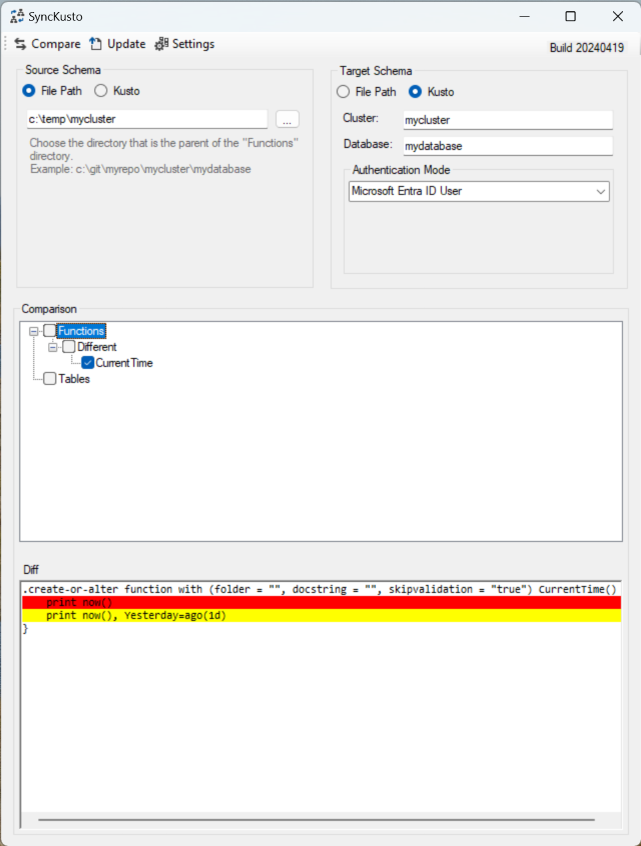
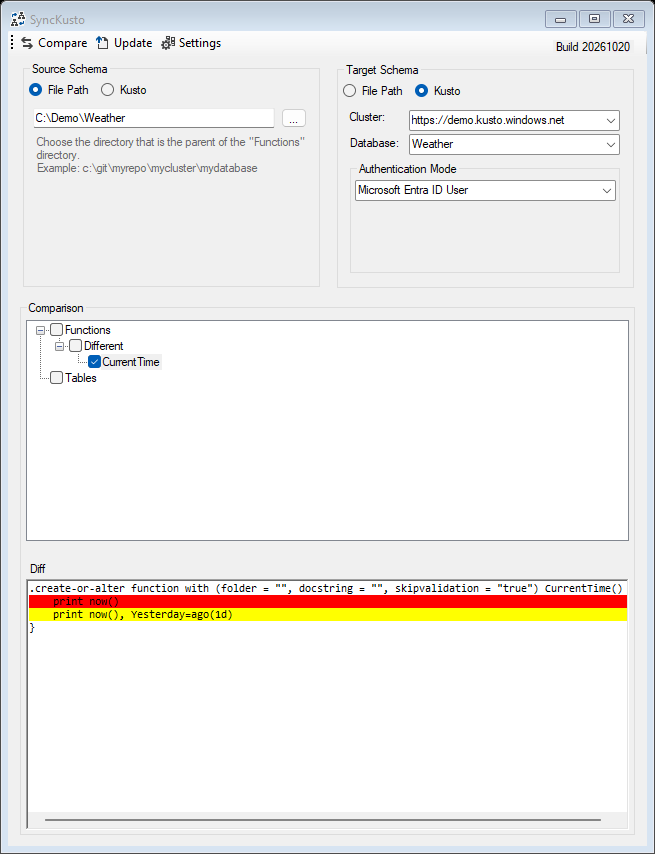
Automate README screenshot refresh
Add an offline WinForms capture command and agent guidance, refresh screenshot.png, and allow SDK servicing patch roll-forward.

Changed region(s): [[0.0, 0.0, 1.0, 1.0]]

diff --git a/SyncKusto.Tests/Screenshots/ReadmeScreenshotTests.cs b/SyncKusto.Tests/Screenshots/ReadmeScreenshotTests.cs
@@ -1,0 +1,149 @@
+// Copyright (c) Microsoft Corporation. All rights reserved.
+// Licensed under the MIT License.
+
+using Kusto.Data.Common;
+using Moq;
+using NUnit.Framework;
+using SyncKusto.Abstractions;
+using SyncKusto.Core.Abstractions;
+using SyncKusto.Core.Models;
+using SyncKusto.Core.Services;
+using SyncKusto.ErrorHandling;
+using SyncKusto.Kusto.Models;
+using System.Drawing;
+using System.Drawing.Imaging;
+using System.Reflection;
+using System.Runtime.InteropServices;
+using static SyncKusto.Tests.Forms.FormsTestHelper;
+
+namespace SyncKusto.Tests.Screenshots;
+
+[TestFixture]
+[Apartment(ApartmentState.STA)]
+[NonParallelizable]
+public class ReadmeScreenshotTests
+{
+    [Test]
+    [Explicit("Run scripts\\Update-ReadmeScreenshot.ps1 to refresh the README image.")]
+    public void Capture()
+    {
+        string? outputPath = Environment.GetEnvironmentVariable("SYNCKUSTO_SCREENSHOT_PATH");
+        Assert.That(outputPath, Is.Not.Null.And.Not.Empty, "Use scripts\\Update-ReadmeScreenshot.ps1.");
+        Assert.That(Environment.UserInteractive, Is.True, "Screenshot capture requires a Windows desktop session.");
+
+        Application.SetHighDpiMode(HighDpiMode.DpiUnaware);
+        Application.SetDefaultFont(new Font("Microsoft Sans Serif", 8.25f));
+        Application.EnableVisualStyles();
+        Application.SetCompatibleTextRenderingDefault(false);
+
+        var source = new DatabaseSchema("demo-source", "");
+        var target = new DatabaseSchema("demo-target", "");
+        var current = CreateFunction("{\r\n    print now(), Yesterday=ago(1d)\r\n}");
+        source.Functions.Add(current.Name, current);
+        target.Functions.Add(current.Name, CreateFunction("{\r\n    print now()\r\n}"));
+        var comparison = new ComparisonResult(
+            new SchemaDifferenceResult(Array.Empty<SchemaDifference>(),
+                new[] { new FunctionSchemaDifference(new Modified(), new KustoFunctionSchema(current)) }),
+            source, target);
+        var presenter = new Mock<IMainFormPresenter>(MockBehavior.Strict);
+        presenter.Setup(p => p.CompareAsync(It.IsAny<SchemaSourceInfo>(), It.IsAny<SchemaSourceInfo>(),
+            It.IsAny<IProgress<SyncProgress>>(), default)).ReturnsAsync(comparison);
+        var settings = new InMemorySettingsProvider();
+        var validation = new SchemaValidationService(settings);
+        var kustoValidation = new Mock<IKustoValidationService>(MockBehavior.Strict);
+        using var form = new CaptureForm(presenter.Object, settings, validation, kustoValidation.Object)
+        {
+            StartPosition = FormStartPosition.Manual,
+            Location = new Point(0, 0),
+            Size = new Size(655, 854),
+            ShowInTaskbar = false
+        };
+        var sourcePicker = form.MainField<SchemaPickerControl>("spcSource");
+        Field<TextBox>(sourcePicker, "txtFilePath").Text = @"C:\Demo\Weather";
+        var targetPicker = form.MainField<SchemaPickerControl>("spcTarget");
+        Field<RadioButton>(targetPicker, "rbKusto").Checked = true;
+        Field<ComboBox>(targetPicker, "cbCluster").Text = "https://demo.kusto.windows.net";
+        Field<ComboBox>(targetPicker, "cbDatabase").Text = "Weather";
+        form.Show();
+
+        var compare = form.CompareSchemasAsync(sourcePicker.GetSourceInfo(), targetPicker.GetSourceInfo());
+        PumpUntil(() => compare.IsCompleted);
+        compare.GetAwaiter().GetResult();
+        var tree = form.MainField<TreeView>("tvComparison");
+        tree.ExpandAll();
+        var functionNode = tree.Nodes[0].Nodes[0].Nodes[0];
+        functionNode.Checked = true;
+        tree.HideSelection = false;
+        tree.SelectedNode = functionNode;
+        typeof(MainForm).GetMethod("tvComparison_NodeMouseClick", BindingFlags.NonPublic | BindingFlags.Instance)!
+            .Invoke(form, new object[] { tree, new TreeNodeMouseClickEventArgs(functionNode, MouseButtons.Left, 1, 0, 0) });
+        var diff = form.MainField<RichTextBox>("rtbSourceText");
+        diff.SelectionStart = 0;
+        diff.SelectionLength = 0;
+        diff.ScrollToCaret();
+        form.Refresh();
+        Application.DoEvents();
+
+        Assert.That(form.Size, Is.EqualTo(new Size(655, 854)));
+        Assert.That(functionNode.Text, Is.EqualTo("CurrentTime"));
+        Assert.That(functionNode.Checked, Is.True);
+        Assert.That(diff.Text, Does.Contain("print now()").And.Contain("Yesterday=ago(1d)"));
+        Assert.That(form.MainField<ToolStripButton>("btnUpdate").Enabled, Is.True);
+        presenter.Verify(p => p.CompareAsync(It.IsAny<SchemaSourceInfo>(), It.IsAny<SchemaSourceInfo>(),
+            It.IsAny<IProgress<SyncProgress>>(), default), Times.Once);
+        presenter.VerifyNoOtherCalls();
+        kustoValidation.VerifyNoOtherCalls();
+
+        using var bitmap = new Bitmap(form.Width, form.Height, PixelFormat.Format32bppArgb);
+        using (var graphics = Graphics.FromImage(bitmap))
+        {
+            nint deviceContext = graphics.GetHdc();
+            try
+            {
+                Assert.That(PrintWindow(form.Handle, deviceContext, 0), Is.True, "Windows could not render the demo window.");
+            }
+            finally
+            {
+                graphics.ReleaseHdc(deviceContext);
+            }
+        }
+
+        // RichTextBox is not reliably rendered by Control.DrawToBitmap.
+        Assert.That(CountPixels(bitmap, Color.Red), Is.GreaterThan(500), "The deleted diff line was not captured.");
+        Assert.That(CountPixels(bitmap, Color.Yellow), Is.GreaterThan(500), "The inserted diff line was not captured.");
+        bitmap.Save(outputPath!, ImageFormat.Png);
+        using var saved = new Bitmap(outputPath!);
+        Assert.That(saved.Size, Is.EqualTo(bitmap.Size));
+    }
+
+    private static FunctionSchema CreateFunction(string body) =>
+        new("CurrentTime", new List<FunctionParameterSchema>(), body, "", "",
+            FunctionSchema.FunctionKind.Unknown, Array.Empty<ColumnSchema>());
+
+    private static int CountPixels(Bitmap bitmap, Color color)
+    {
+        int count = 0;
+        for (int y = 0; y < bitmap.Height; y++)
+            for (int x = 0; x < bitmap.Width; x++)
+                if (bitmap.GetPixel(x, y).ToArgb() == color.ToArgb())
+                    count++;
+        return count;
+    }
+
+    private sealed class CaptureForm(
+        IMainFormPresenter presenter,
+        ISettingsProvider settings,
+        ISchemaValidationService validation,
+        IKustoValidationService kustoValidation)
+        : MainForm(presenter, ErrorMessageResolverFactory.CreateDefault(), settings, validation, kustoValidation)
+    {
+        protected override bool ShowWithoutActivation => true;
+
+        public T MainField<T>(string name) =>
+            (T)typeof(MainForm).GetField(name, BindingFlags.NonPublic | BindingFlags.Instance)!.GetValue(this)!;
+    }
+
+    [DllImport("user32.dll")]
+    [return: MarshalAs(UnmanagedType.Bool)]
+    private static extern bool PrintWindow(nint window, nint deviceContext, uint flags);
+}

diff --git a/CONTRIBUTING.md b/CONTRIBUTING.md
@@ -10,10 +10,10 @@ or contact [opencode@microsoft.com](mailto:opencode@microsoft.com) with any addi
 
 ## Building the project
 Dependencies:
-- Windows and the .NET SDK version pinned in `global.json` (currently `10.0.402`).
+- Windows and a .NET SDK compatible with `global.json`: `10.0.402` or a newer servicing patch in the `10.0.4xx` feature band.
 - For IDE development and the WinForms designer, a supported [Visual Studio 2026](https://visualstudio.microsoft.com/vs/) installation with the .NET desktop development workload.
 
-Both build workflows install the pinned SDK and use its bundled NuGet client. SDK roll-forward and prerelease selection are disabled to keep local and CI dependency resolution aligned.
+Both build workflows install the baseline SDK specified in `global.json`. Local and CI SDK resolution use `latestPatch`, selecting the newest installed servicing patch in that same feature band, and use its bundled NuGet client. Older SDKs, other feature bands, minor/major roll-forward, and prerelease versions are not allowed. Locked restores continue to enforce the reviewed dependency graph and package hashes.
 
 Local development:
 1. Clone the Sync Kusto repo to your local machine
@@ -35,6 +35,22 @@ The CI regression tests run offline; they do not validate live Kusto authenticat
 
 The main window shows a date-based build version in `Build YYYYMMDD` format (currently `Build 20261020`, for October 20, 2026). To update the displayed date, change `label2.Text` in `SyncKusto\MainForm.Designer.cs`.
 
+### Refreshing the README screenshot
+
+On Windows, install PowerShell 7.2 or newer and an SDK compatible with `global.json`, then run:
+
+```powershell
+pwsh -NoProfile -File .\scripts\Update-ReadmeScreenshot.ps1
+```
+
+The script resolves the repository from its own location, so it also works when invoked by absolute path from another working directory. It performs a locked restore using your normal trusted NuGet configuration, builds the application and test project in Release, and runs only the explicitly selected screenshot fixture. Package restore may require network access; the capture itself is completely offline.
+
+The fixture opens the real main form without requesting activation, with in-memory settings and a fake presenter supplying a fictional modified `CurrentTime` function. It never uses live Kusto connections, credentials, saved settings, or schema files. Windows renders only that window, including its native rich-text diff; no desktop pixels or unrelated windows are captured. A Windows desktop session is required; this is not a browser or headless cross-platform renderer.
+
+The command replaces root `screenshot.png` only after capture succeeds and the PNG passes content and size checks. Capture has a timeout, and failures leave the existing image unchanged. Normal test runs do not regenerate the image, and no CI or scheduled regeneration is configured.
+
+Inspect the result before including it with your changes: the current build label, source and target pickers, expanded comparison, checked function, and red/yellow diff should be visible. The demo content and window dimensions are fixed, but native window chrome, fonts, and theme can vary between Windows environments; byte-identical output across machines is not guaranteed. Agents should follow the refresh guidance in `AGENTS.md`.
+
 ### Dependency restore policy
 
 Local development and CI deliberately select sources differently:
@@ -52,7 +68,7 @@ An approved mirror must supply packages matching the reviewed content hashes. Ch
 
 ### Updating dependencies
 
-For an intentional dependency or framework update, change the relevant project references or target framework, then use the pinned SDK and approved configuration to regenerate locks locally:
+For an intentional dependency or framework update, change the relevant project references or target framework, then use an SDK compatible with `global.json` and approved configuration to regenerate locks locally:
 
 ```powershell
 dotnet restore SyncKusto.sln --use-lock-file --force-evaluate
@@ -62,7 +78,7 @@ This uses the same inherited local source settings as normal development. Depend
 
 Review all five lock files together with the project changes: explain every direct/transitive version change and unexpected hash change, and never hand-edit package hashes. To review a genuinely clean resolution, point `NUGET_PACKAGES` and `NUGET_HTTP_CACHE_PATH` at new disposable folders rather than clearing shared caches.
 
-Repeat the normal locked restore, build, and appropriate offline tests; the reviewed locks must remain unchanged. Include the updated locks in the dependency-update commit. SDK servicing updates must deliberately update `global.json` and verify the locks with that SDK. Never delete locks, use `--force-evaluate`, or retry unlocked in CI to bypass a failure.
+Repeat the normal locked restore, build, and appropriate offline tests; the reviewed locks must remain unchanged. Include the updated locks in the dependency-update commit. Servicing patches within the allowed feature band do not require editing `global.json`; raising the minimum SDK version or changing feature bands does. Verify the locks when changing the SDK, and never regenerate them just to accommodate a roll-forward failure. Never delete locks, use `--force-evaluate`, or retry unlocked in CI to bypass a failure.
 
 ## Maintainers
 Sync Kusto is lovingly maintained by:

diff --git a/AGENTS.md b/AGENTS.md
@@ -1,0 +1,15 @@
+# README screenshot
+
+The README embeds the root `screenshot.png`. Refresh it when requested or when visible main-window changes make the image stale (for example, picker layout, toolbar, comparison tree, diff display, or build label changes).
+
+On Windows, with PowerShell 7.2 or newer, a desktop session, and an SDK compatible with `global.json` (`10.0.402` or a newer servicing patch in the `10.0.4xx` feature band), run from the repository root:
+
+```powershell
+pwsh -NoProfile -File .\scripts\Update-ReadmeScreenshot.ps1
+```
+
+The command builds the current code and captures the real form with fixed fictional data. It does not connect to Kusto or read/write saved user settings. Keep those guarantees: never substitute real credentials, connections, schemas, or a full-desktop capture. No manual app setup is needed.
+
+Inspect the generated image before including `screenshot.png` with the relevant UI changes. Confirm the current build label, both pickers, expanded comparison, checked `CurrentTime` function, and red/yellow diff are visible. If capture is unavailable or fails, report that limitation rather than fabricating an image or claiming it was refreshed. Do not edit the image by hand or add automatic CI updates.
+
+See `CONTRIBUTING.md` for prerequisites and capture details.

diff --git a/README.md b/README.md
@@ -4,6 +4,8 @@ The Sync Kusto tool was built to help create a maintainable development process 
 
 ![Screenshot](/screenshot.png)
 
+To regenerate this image automatically, see [Refreshing the README screenshot](CONTRIBUTING.md#refreshing-the-readme-screenshot).
+
 ## Scope
 This tool is intended specifically for the developer desktop scenario. It will not help if you need to build an automated syncing process, generate change scripts, sync policies, etc. For all of that, we recommend using [Delta Kusto](https://github.com/microsoft/delta-kusto). 
 
